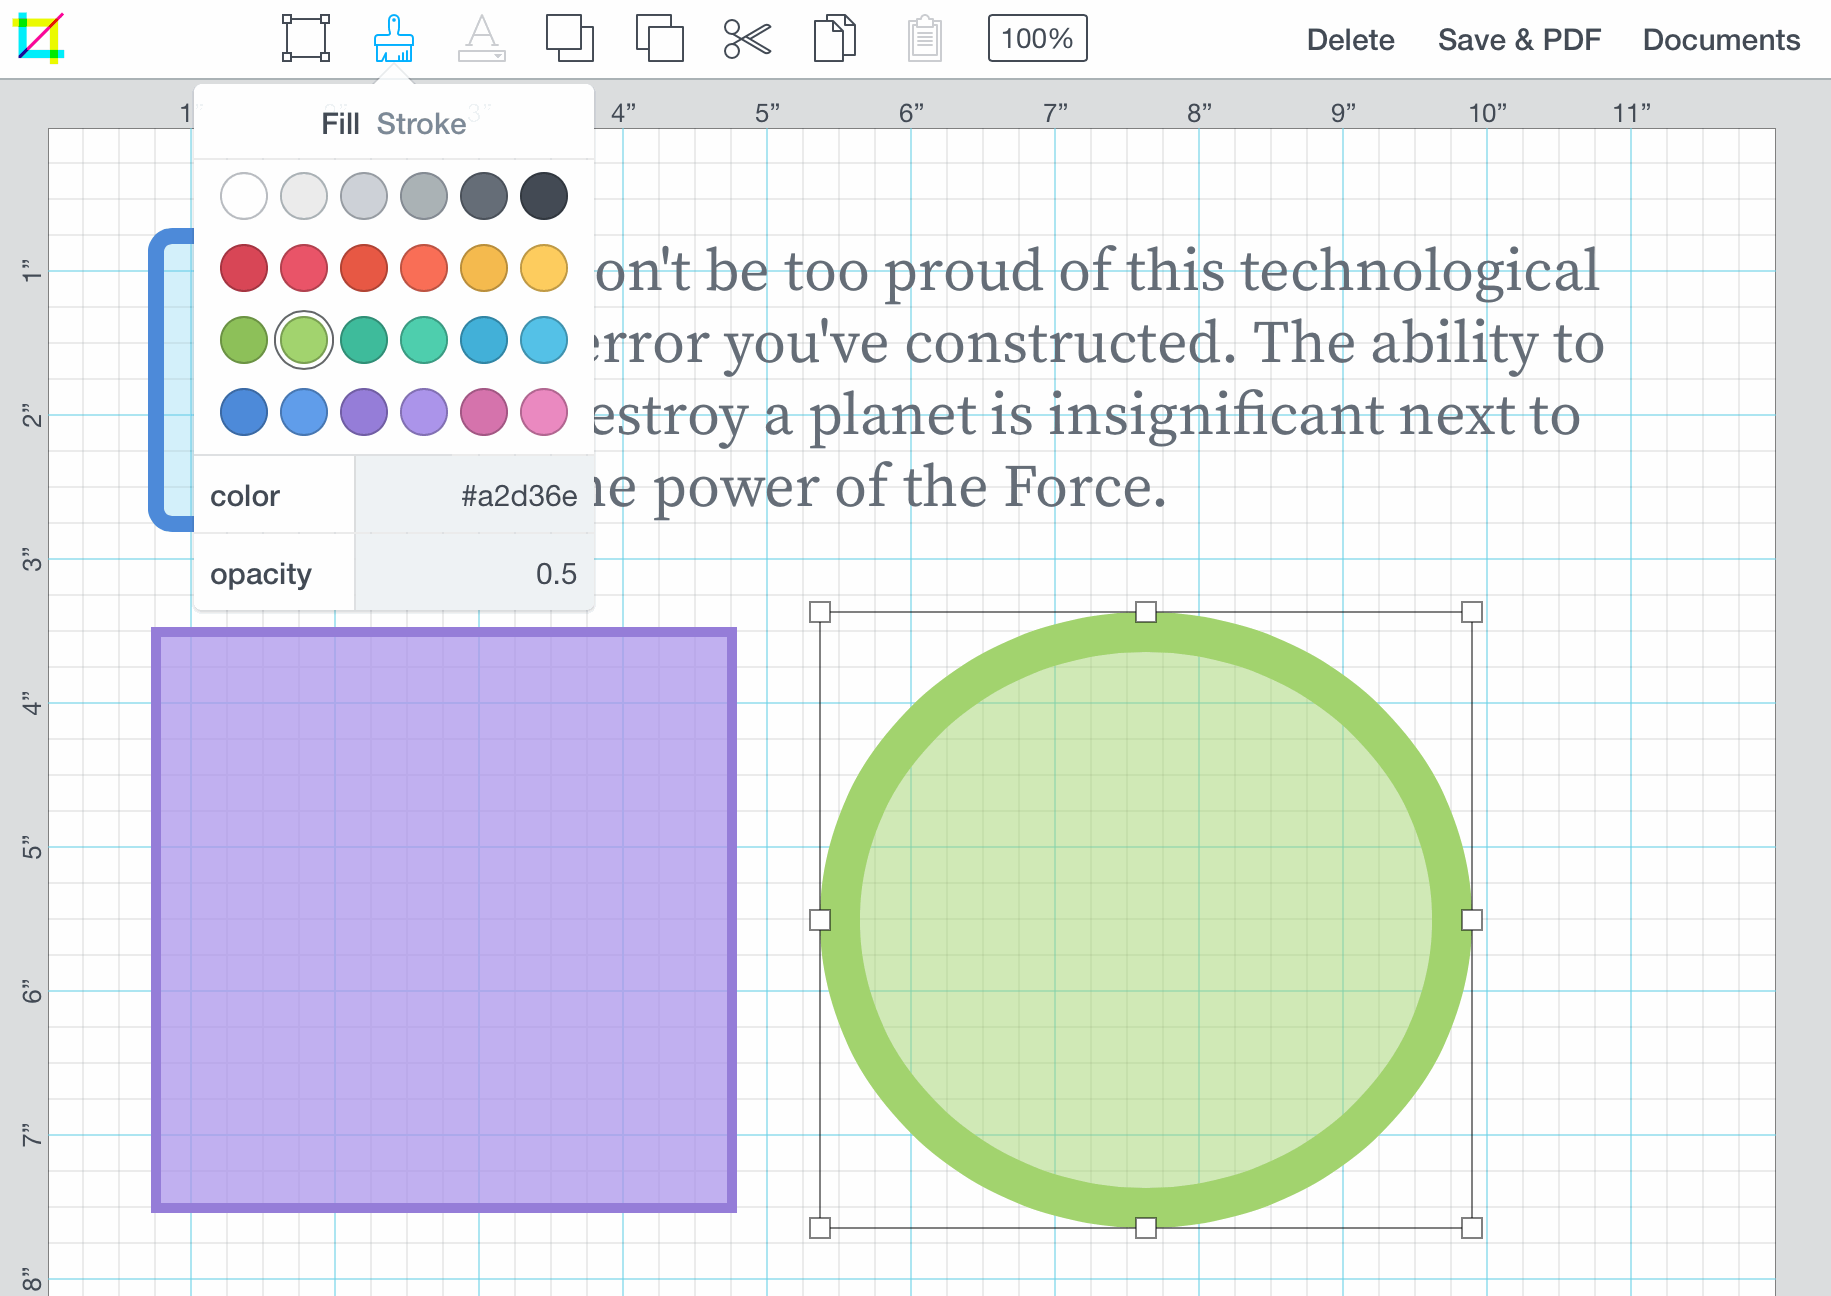
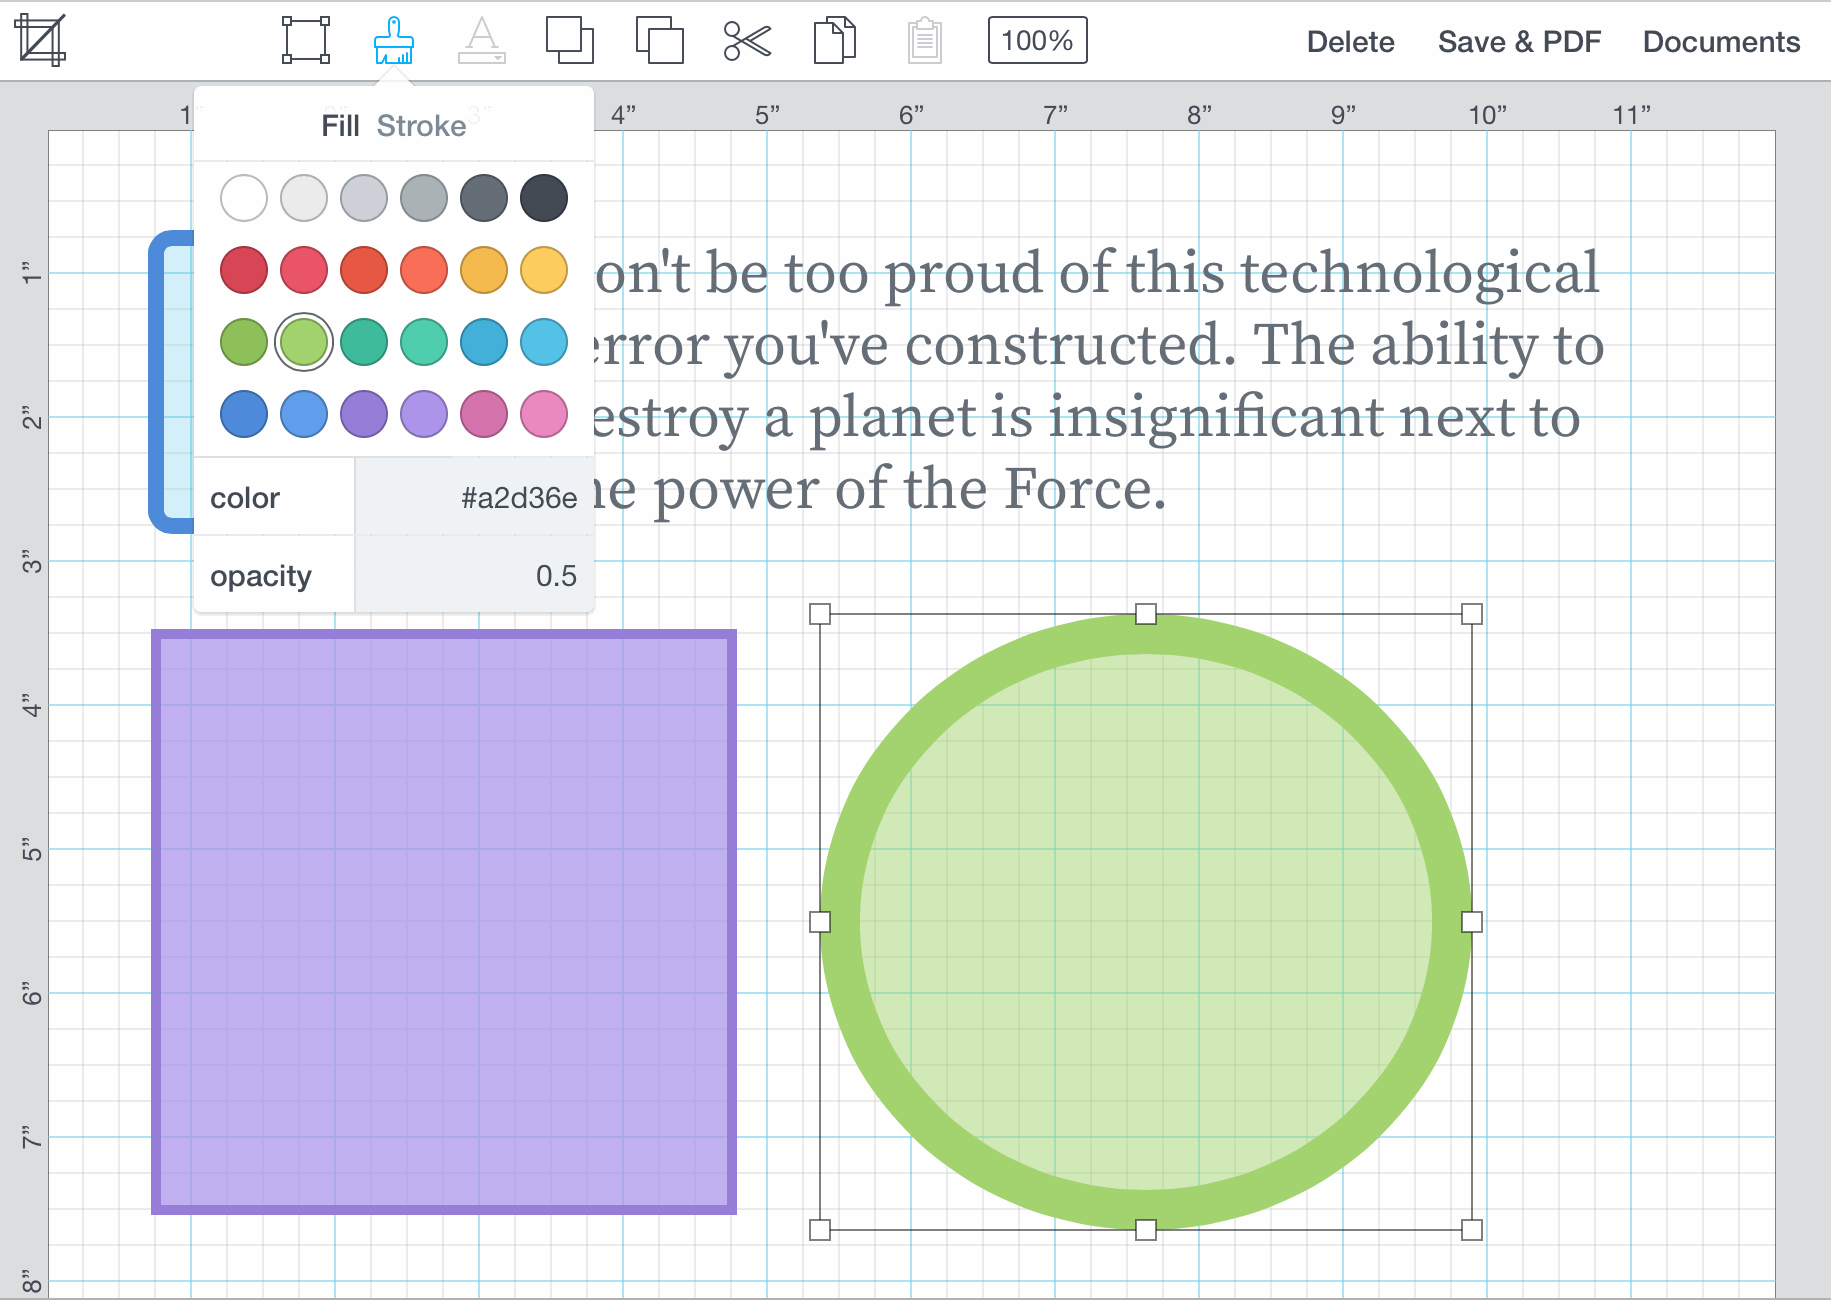
Updated landing page. Fixed color bug

diff --git a/client/css/login.less b/client/css/login.less
@@ -3,15 +3,25 @@
   margin: auto;
   position: fixed;
   top: 0; right: 0; bottom: 50px; left: 0;
-  z-index: 1;
+  z-index: -1;
+  
+  @media screen and (max-width: 650px) {
+    background-size: 250px 179px;
+    width: 250px;
+    height: 179px;
+  }
 }
 
 .auth-bar {
-  position: fixed;
+  position: absolute;
   text-align: center;
   top: 2%;
   width: 100%;
   z-index: 1;
+  
+  @media screen and (max-width: 650px) {
+    display: none;
+  }
   
   .or {
     color: hsla(0, 0%, 100%, 0.7);
@@ -41,17 +51,22 @@
 }
 
 section#landing-page {
+  -webkit-overflow-scrolling: touch;
+  
   section.full-height-section {
     height: 100vh;
+    overflow: hidden;
   }
 
   section#hero {
     background: @blue-dark;
-    background-image: -moz-radial-gradient(center top, ellipse cover, @blue, @blue-dark 100%);
-    background-image: -webkit-radial-gradient(center top, ellipse cover, @blue, @blue-dark 100%);
-    background-image: -o-radial-gradient(center top, ellipse cover, @blue, @blue-dark 100%);
-    background-image: -ms-radial-gradient(center top, ellipse cover, @blue, @blue-dark 100%);
-    box-shadow: inset 0 -50px 50px -50px @blue-dark;
+    background-image: -moz-radial-gradient(center top, ellipse cover, @blue, darken(@blue-dark, 10%) 100%);
+    background-image: -webkit-radial-gradient(center top, ellipse cover, @blue, darken(@blue-dark, 10%) 100%);
+    background-image: -o-radial-gradient(center top, ellipse cover, @blue, darken(@blue-dark, 10%) 100%);
+    background-image: -ms-radial-gradient(center top, ellipse cover, @blue, darken(@blue-dark, 10%) 100%);
+    box-shadow: inset 0 -50px 50px -50px darken(@blue-dark, 20%);
+    position: relative;
+    z-index: -1;
     
     #scroll-helper {
       bottom: 2%;
@@ -62,39 +77,105 @@ section#landing-page {
       position: fixed;
       width: 100%;
       text-align: center;
-      z-index: 1;
+      z-index: -1;
     }
   }
   
-  section#page-content {
+  section.page-content {
     background: #fff;
     position: relative;
-    z-index: 2;
+    text-align: center;
+    
+    @media screen and (max-width: 650px) {
+      height: auto;
+    }
+    
+    &.page-content-about {
+      background: url('../img/pub-screenshot.png') no-repeat center 400px;
+      background-size: 100% auto;
+      
+      @media screen and (max-width: 650px) {
+        background: #fff;
+      }
+    }
+    
+    &.page-content-tech {
+      background-size: 656px 336px;
+      border-top: 1px hsla(0, 0%, 0%, 0.5) solid;
+      
+      @media screen and (max-width: 650px) {
+        border-top: 1px hsla(0, 0%, 0%, 0.25) solid;
+      }
+
+      .tech-logos {
+        .svg-picture('pub-tech-logos', 660px, 360px, block);
+        margin: 0 auto 4em auto;
+        
+        @media screen and (max-width: 650px) {
+          display: none;
+        }
+      }
+    }
     
     .page-content-wrapper {
-      padding: 5%;
-      max-width: 1024px;
+      padding: 3em 0;
       margin: 0 auto;
+      width: 100vw;
+    }
+    
+    .page-content-middle {
+      display: table-cell;
+      vertical-align: middle;
+      height: 100vh;
+      
+      @media screen and (max-width: 650px) {
+        display: block;
+        height: auto;
+      }
     }
     
     h1 {
       color: #434a54;
-      font-size: 3.5vw;
-      font-weight: 300;
-      padding: 0 0 0.5em 0;
+      font-size: 2em;
+      font-weight: 400;
+      letter-spacing: -1px;
+      max-width: 1024px;
+      margin: 0 auto;
+      padding: 0 0 1.25em 0;
+      width: 90%;
+      
+      @media screen and (max-width: 930px) {
+        font-size: 1.8em;
+      }
+      
+      @media screen and (max-width: 650px) {
+        font-size: 1.5em;
+      }
+      
+      &.mobile-only {
+        display: none;
+        
+        @media screen and (max-width: 650px) {
+          display: block;
+        }
+      }
     }
     
     p {
       color: #656e78;
-      font-size: 2.25vw;
-      padding: 0 0 2em 0;
-    }
-    
-    .pub-screenshot {
-      background: url('../img/pub-screenshot.png') no-repeat center center;
-      background-size: 100% auto;
-      height: 918px; width: 653px;
-      border: 1px solid @darkgray-dark;
+      font-size: 1.3em;
+      max-width: 1024px;
+      margin: 0 auto;
+      padding: 0 0 1.25em 0;
+      width: 90%;
+      
+      @media screen and (max-width: 930px) {
+        font-size: 1.2em;
+      }
+      
+      @media screen and (max-width: 650px) {
+        font-size: 1em;
+      }
     }
   }
 }

diff --git a/client/views/login/home.html b/client/views/login/home.html
@@ -1,25 +1,29 @@
 <section id="landing-page">
+  <div class="auth-bar animation-landing-fade">
+    <button class="button button-text button-text-no-frame" ng-click="loginModal()">Log In</button>
+    <span class="or">or</span>
+    <button class="button button-text button-text-no-frame" ng-click="createAccount()">Start using Publications</button>
+  </div>
   <section class="full-height-section" id="hero">
-    <div class="auth-bar animation-landing-fade">
-      <button class="button button-text button-text-no-frame" ng-click="loginModal()">Log In</button>
-      <span class="or">or</span>
-      <button class="button button-text button-text-no-frame" ng-click="createAccount()">Start using Publications</button>
-    </div>
     <figure id="pub-logo-svg" class="animation-pub-logo"></figure>
     <span id="scroll-helper" class="animation-landing-fade">
       scroll to learn more
     </span>
   </section>
-  <section class="full-height-section" id="page-content">
+  <section class="full-height-section page-content page-content-about">
     <div class="page-content-wrapper">
-      <h1>
-        Create beautiful, vivid documents
-      </h1>
-      <p>
-        Publications includes all the tools to create beautiful documents with shapes and text. Shapes can be customized to have different fill colors, border colors, border width, radii, opacity and size. Publications now supports canvas zooming and object snap-to-grid alignment. Export your documents to scalable multi-layer PDFs that can be shared with anyone.
-      </p>
-      <div class="pub-screenshot">
-        
+      <h1>Create beautiful, vivid documents</h1>
+      <p>Publications includes all the tools to create beautiful documents with shapes and text. Shapes can be customized to have different fill colors, border colors, border width, radii, opacity and size. Publications now supports canvas zooming and object snap-to-grid alignment. Export your documents to scalable multi-layer PDFs that can be shared with anyone.</p>
+      <p>Publications saves all your documents securely on the cloud. Easily view all your documents with full crisp and clear previews. Publications now lets you search and filter documents by name or date.</p>
+    </div>
+  </section>
+  <section class="full-height-section page-content page-content-tech">
+    <div class="page-content-middle">
+      <div class="page-content-wrapper">
+        <div class="tech-logos"></div>
+        <h1 class="mobile-only">Full-stack JavaScript app</h1>
+        <p>Publications is built using AngularJS, ExpressJS, PDFKit, MongooseJS and NodeJS. It runs on an ArchLinux cloud-based server. There are no additional plug-ins or downloads required to use Publications. It runs on the latest versions of Safari, Chrome and Opera for Mac and Windows.</p>
+        <p>Publications is designed, developed and maintained by Michael Kelly and Carlos Paelinck.</p>
       </div>
     </div>
   </section>

diff --git a/client/js/src/documents/controllers.js b/client/js/src/documents/controllers.js
@@ -105,22 +105,22 @@
       $scope.exportModalVisible = false;
       $scope.selectedColor = null;
       $scope.availableColors = [];
+      
+      $scope.switchColor = function(availableColor) {
+        $scope.selectedColor = availableColor.toLowerCase();
+      };
 
       $scope.svgObjectSelected = function(obj) {
         $scope.selectedObj = obj;
 
-        if (obj && obj.type === 'text') {
-          $scope.selectedColor = 'color';
+        if (obj && obj.type.toLowerCase() == 'text'.toLowerCase()) {
           $scope.availableColors = [ 'color' ];
 
         } else if (obj) {
-          $scope.selectedColor = 'fill';
           $scope.availableColors = [ 'fill', 'stroke' ];
-          
-        } else {
-          $scope.selectedColor = null;
-          $scope.availableColors = [];
         }
+        
+        $scope.selectedColor = $scope.availableColors[0];
       };
       
       $scope.cutObj = function() {
@@ -222,10 +222,6 @@
 
       $scope.updateColor = function(color) {
         $scope.selectedObj[$scope.selectedColor] = color;
-      };
-      
-      $scope.switchColor = function(availableColor) {
-        $scope.selectedColor = availableColor.toLowerCase();
       };
 
       $scope.addObject = function(objType) {

diff --git a/client/views/directives/inspectors/color.html b/client/views/directives/inspectors/color.html
@@ -2,7 +2,7 @@
   <span class="h1-button"
         ng-repeat="availableColor in availableColors"
         ng-click="switchColor(availableColor)"
-        ng-class="{ selected: selectedColor.toLowerCase() === availableColor.toLowerCase()}">
+        ng-class="{ selected: selectedColor.toLowerCase() == availableColor.toLowerCase()}">
     {{ availableColor.capitalize() }}
   </span>
 </h1>

diff --git a/client/css/modal.less b/client/css/modal.less
@@ -74,7 +74,7 @@
     text-align: center;
 
     .app-logo {
-      .retina-picture('pub-full-logo', 240px, 174px, block);
+      .svg-picture('pub-full-logo', 210px, 160px, block);
       margin: 0 auto 1.5em auto;
     }
 

diff --git a/client/css/app.less b/client/css/app.less
@@ -94,7 +94,7 @@ html, body {
   }
 
   .app-nav-logo {
-    .retina-picture('pub-logo-40', 41px, 40px, inline-block);
+    .svg-picture('pub-logo-40', 41px, 40px, inline-block);
   }
 }
 
